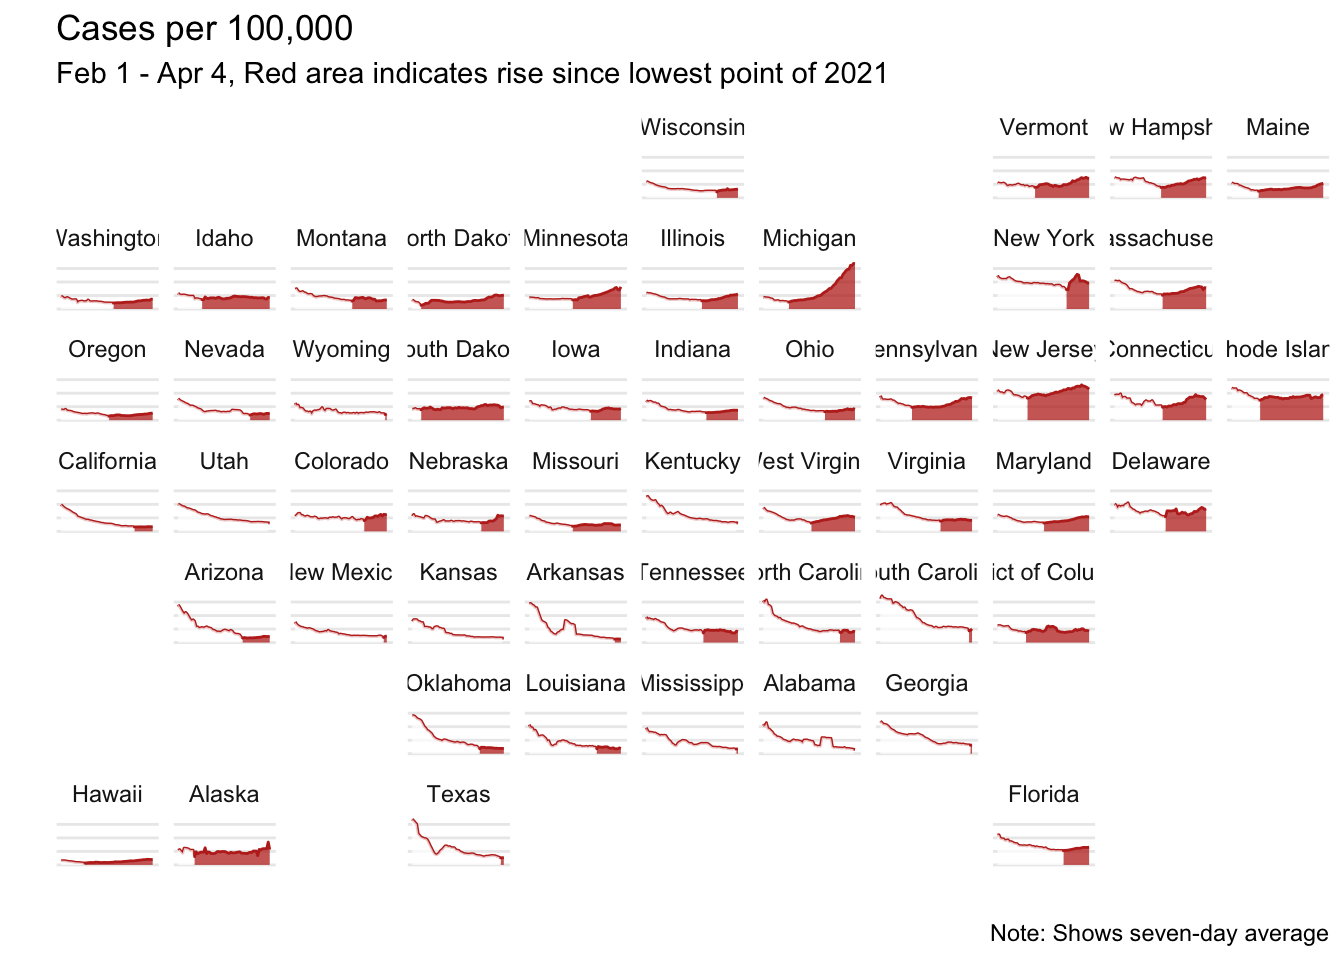
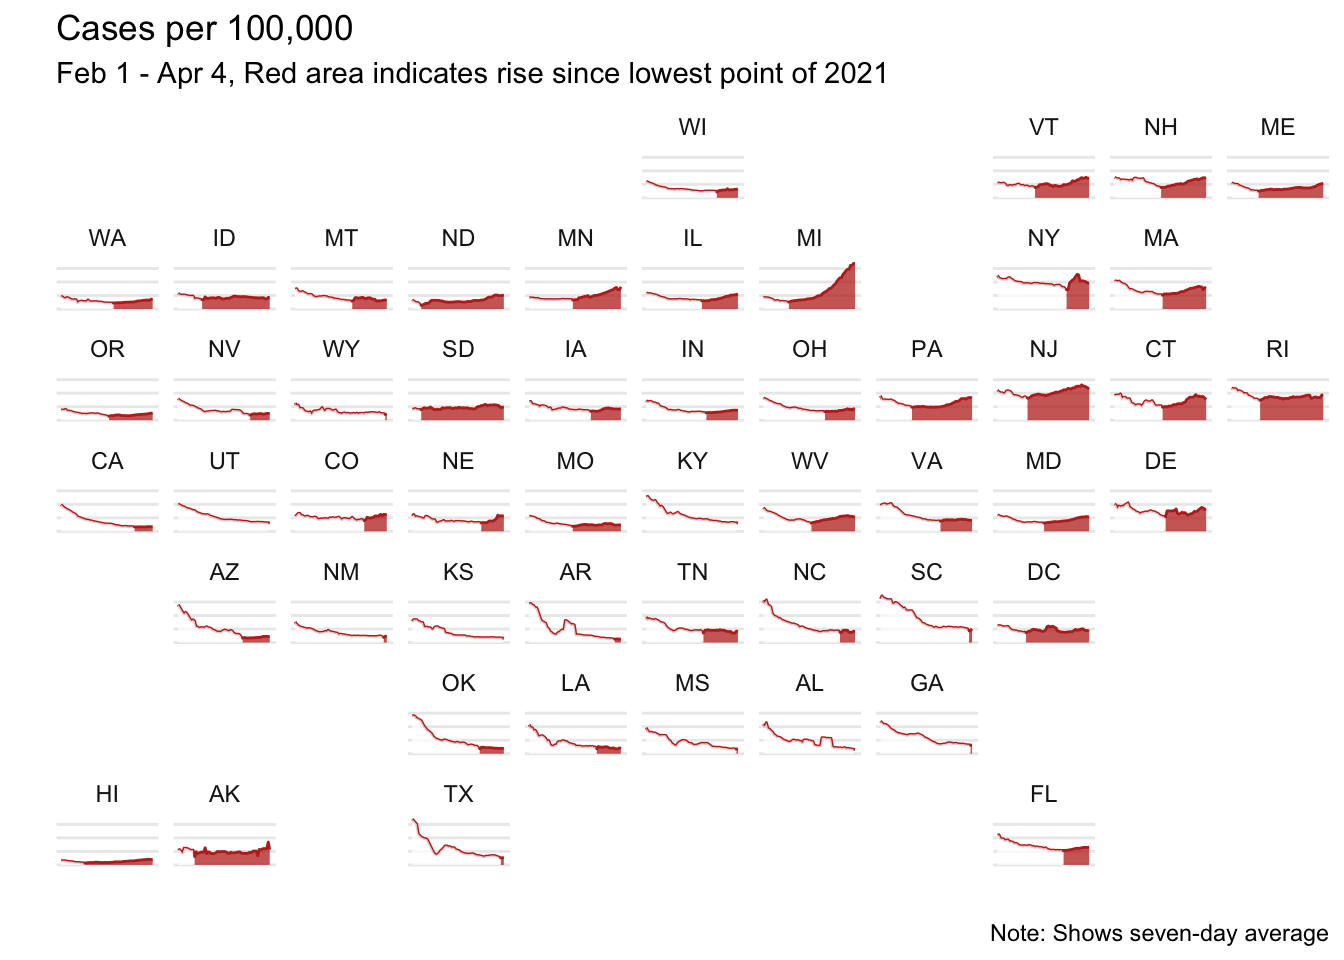
update

diff --git a/content/post/2021-04-07-nytimes-map-how-to.html b/content/post/2021-04-07-nytimes-map-how-to.html
@@ -34,6 +34,7 @@ library(zoo)</code></pre>
 <li>I created a 7 day rolling average</li>
 <li>I created a variable for 7 day average per 100,000 people - this is the main variable used in the plot</li>
 <li>I filtered to the range used in the original visualization - from Februrary 1st to April 4th</li>
+<li>I merged in state abbreviations to make the plot easier to read</li>
 </ul>
 <pre class="r"><code>d &lt;- cases %&gt;%
   group_by(state) %&gt;%
@@ -47,7 +48,14 @@ library(zoo)</code></pre>
     case_7 = rollmean(case, k = 7, fill = NA),
     case_per_100 = (case_7 / estimate) * 100000) %&gt;%
   ungroup() %&gt;%
-  filter(date &gt; as.Date(&quot;2021-01-31&quot;), date &lt; as.Date(&quot;2021-04-05&quot;))</code></pre>
+  filter(date &gt; as.Date(&quot;2021-01-31&quot;), date &lt; as.Date(&quot;2021-04-05&quot;))
+
+states &lt;- tibble(state = state.name,
+                 state_ = state.abb) %&gt;%
+   add_row(state = &quot;District of Columbia&quot;, state_ = &quot;DC&quot;)
+
+d &lt;- left_join(d, states, by = &quot;state&quot;) %&gt;%
+  filter(!is.na(state_))</code></pre>
 <p>This plot had a neat feature that it filled in the area from the lowest point onward; to replicate this I found the date with the minimum cases per 100,000 and created a variable <code>col</code> to indicate any date after this point.</p>
 <pre class="r"><code>d &lt;- d %&gt;% 
   group_by(state) %&gt;%
@@ -62,7 +70,7 @@ library(zoo)</code></pre>
   geom_line(color = &quot;#BE2D22&quot;) + 
   geom_area(aes(fill = col), alpha = 0.75) +
   scale_fill_manual(values = c(&quot;white&quot;, &quot;#BE2D22&quot;)) +
-  facet_geo(~state) + 
+  facet_geo(~state_) + 
   theme_minimal() +
   labs(x = &quot;&quot;, 
        y = &quot;&quot;,
